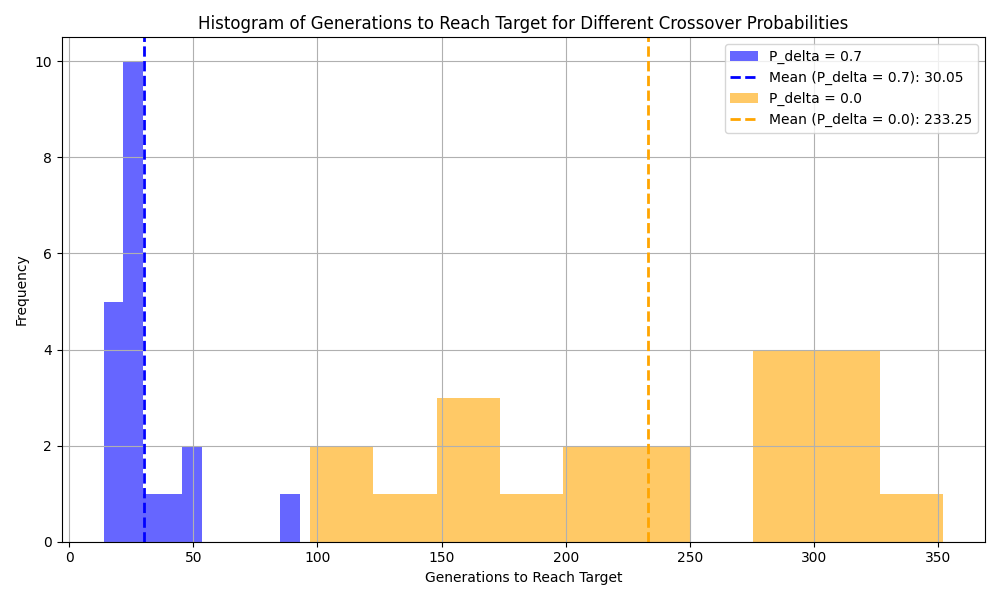
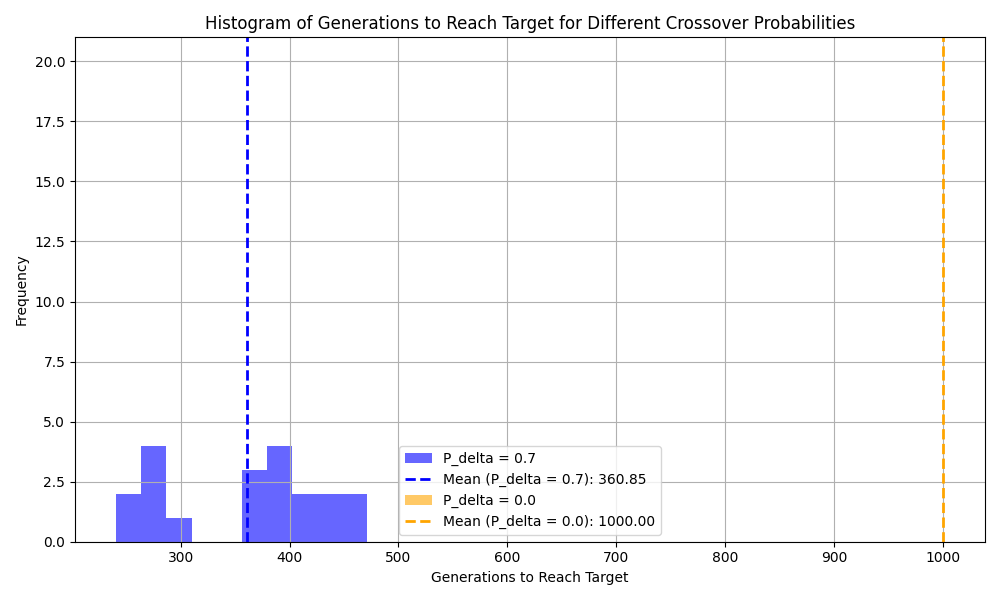
only keep torch implementation

diff --git a/genetic/genetic_algorithm.py b/genetic/genetic_algorithm.py
@@ -1,54 +1,61 @@
-from utils import *
+import torch
+def linear_fitness(population: torch.Tensor):
+    return population.sum(dim=1)
+
+def binary_fitness(chromosome: torch.Tensor):
+    powers = 2 ** torch.arange(len(chromosome) - 1, -1, -1, device=chromosome.device)
+    return (chromosome * powers).sum()
+
+def mutate(population: torch.Tensor, P_mu: float):
+    mutation_mask = torch.rand_like(population, dtype=torch.float32) < P_mu
+    return population ^ mutation_mask.to(torch.bool)
+
+def roulette_wheel(population: torch.Tensor, fitnesses: torch.Tensor):
+    probabilities = fitnesses / torch.sum(fitnesses)
+    indices = torch.multinomial(probabilities, num_samples=2, replacement=True)
+    return population[indices[0]], population[indices[1]]
+
+def one_point_crossover(parents: torch.Tensor, P_delta: float):
+    n, _, gene_length = parents.shape
+    do_crossover = torch.rand(n) < P_delta
+    points = torch.randint(1, gene_length, (n,))
+    child1, child2 = parents[:, 0, :].clone(), parents[:, 1, :].clone()
+
+    for i in range(n):
+        if do_crossover[i]:
+            p = points[i]
+            child1[i, p:], child2[i, p:] = parents[i, 1, p:], parents[i, 0, p:]
+
+    return torch.cat([child1, child2], dim=0)
+
+def ones(fitnesses: torch.Tensor, target: int):
+    return torch.any(fitnesses == target).item()
 
 class GeneticAlgorithm:
-    def __init__(self, fitness=linear_fitness, selection=roulette_wheel_selection,
-                 P_delta=0.7, P_mu=0.001, n=100, l=100, library='torch'):
+    def __init__(self, fitness=linear_fitness, selection=roulette_wheel, target=ones,
+                 P_delta=0.7, P_mu=0.001, n=100, l=100):
         self.P_delta, self.P_mu = P_delta, P_mu
         self.n, self.l = n, l
         self.fitness = fitness
         self.selection = selection
+        self.target = target
         self.device = torch.device('cuda' if torch.cuda.is_available() else 'cpu')
-        self.library = library
 
-    def run(self, max_generations=1e6):
-        if self.library == 'numpy': population = np.random.randint(0, 2, size=(self.n, self.l))
-        else: population = torch.randint(0, 2, (self.n, self.l), dtype=torch.int32, device=self.device)
+    def run(self, max_generations=1e3):
+        population = torch.randint(0, 2, (self.n, self.l), dtype=torch.int32, device=self.device)
 
         for generation in range(int(max_generations)):
             fitnesses = self.fitness(population)
+            if self.target(fitnesses, self.l): return generation
 
-            if target_check(fitnesses, self.l):
-                return generation
-
-            population = self.evolve(population, fitnesses)
-
-        return max_generations
-
-    def evolve(self, population, fitnesses):
-        if self.library == 'numpy':
-            probabilities = fitnesses / np.sum(fitnesses)
-            parent_indices = np.random.choice(len(population), size=2 * self.n, p=probabilities)
-            parents = population[parent_indices].reshape(self.n, 2, -1)
-
-            children = []
-            for parent_pair in parents:
-                child1, child2 = one_point_crossover(parent_pair[0], parent_pair[1], self.P_delta)
-                children.append(mutate(child1, self.P_mu))
-                children.append(mutate(child2, self.P_mu))
-
-            return np.array(children[:self.n])
-
-        elif self.library == 'torch':
             probabilities = fitnesses / torch.sum(fitnesses)
             parent_indices = torch.multinomial(probabilities, num_samples=2 * self.n, replacement=True)
             parents = population[parent_indices].reshape(self.n, 2, -1)
 
-            children = []
-            for parent_pair in parents:
-                child1, child2 = one_point_crossover(parent_pair[0], parent_pair[1], self.P_delta)
-                children.append(mutate(child1, self.P_mu))
-                children.append(mutate(child2, self.P_mu))
+            children = one_point_crossover(parents, self.P_delta)
+            mutated_children = mutate(children, self.P_mu)
 
-            return torch.stack(children[:self.n])
+            population =  mutated_children[:self.n]
 
+        return max_generations
 

diff --git a/genetic/plot_functions.py b/genetic/plot_functions.py
@@ -18,3 +18,15 @@ def p_delta_histograms(results: list, p_deltas: list, path: str):
     plt.grid(True)
     plt.tight_layout()
     plt.savefig(path)
+
+def generation_progress(generations, bests, means, path: str):
+    plt.figure(figsize=(10, 6))
+    plt.plot(generations, bests, label="Best fitness", color="green")
+    plt.plot(generations, means, label="Mean fitness", color="blue")
+    plt.xlabel("Generation")
+    plt.ylabel("Fitness Value")
+    plt.title("Genetic Algorithm Progress Over Generations")
+    plt.legend()
+    plt.grid(True)
+    plt.tight_layout()
+    plt.savefig(path)

diff --git a/genetic/9_2.py b/genetic/9_2.py
@@ -50,17 +50,7 @@ def main():
     bests, means = run_genetic_algorithm(P_delta)
 
     generations = np.arange(len(bests))
-    plt.figure(figsize=(10, 6))
-    plt.plot(generations, bests, label="Best fitness", color="green")
-    plt.plot(generations, means, label="Mean fitness", color="blue")
-    plt.xlabel("Generation")
-    plt.ylabel("Fitness Value")
-    plt.title("Genetic Algorithm Progress Over Generations")
-    plt.legend()
-    plt.grid(True)
-    plt.tight_layout()
-    plt.savefig("genetic_progress.png")
-    plt.show()
+
 
 if __name__ == "__main__":
     main()

diff --git a/genetic/9_1.py b/genetic/9_1.py
@@ -4,7 +4,7 @@ from plot_functions import p_delta_histograms
 
 def main():
     runs, p_deltas = 20, [0.7, 0.0]
-    P_mu, n, l = 0.001, 100, 100
+    P_mu, n, l = 0.001, 1000, 100
     results = []
 
     for P_delta in p_deltas:
